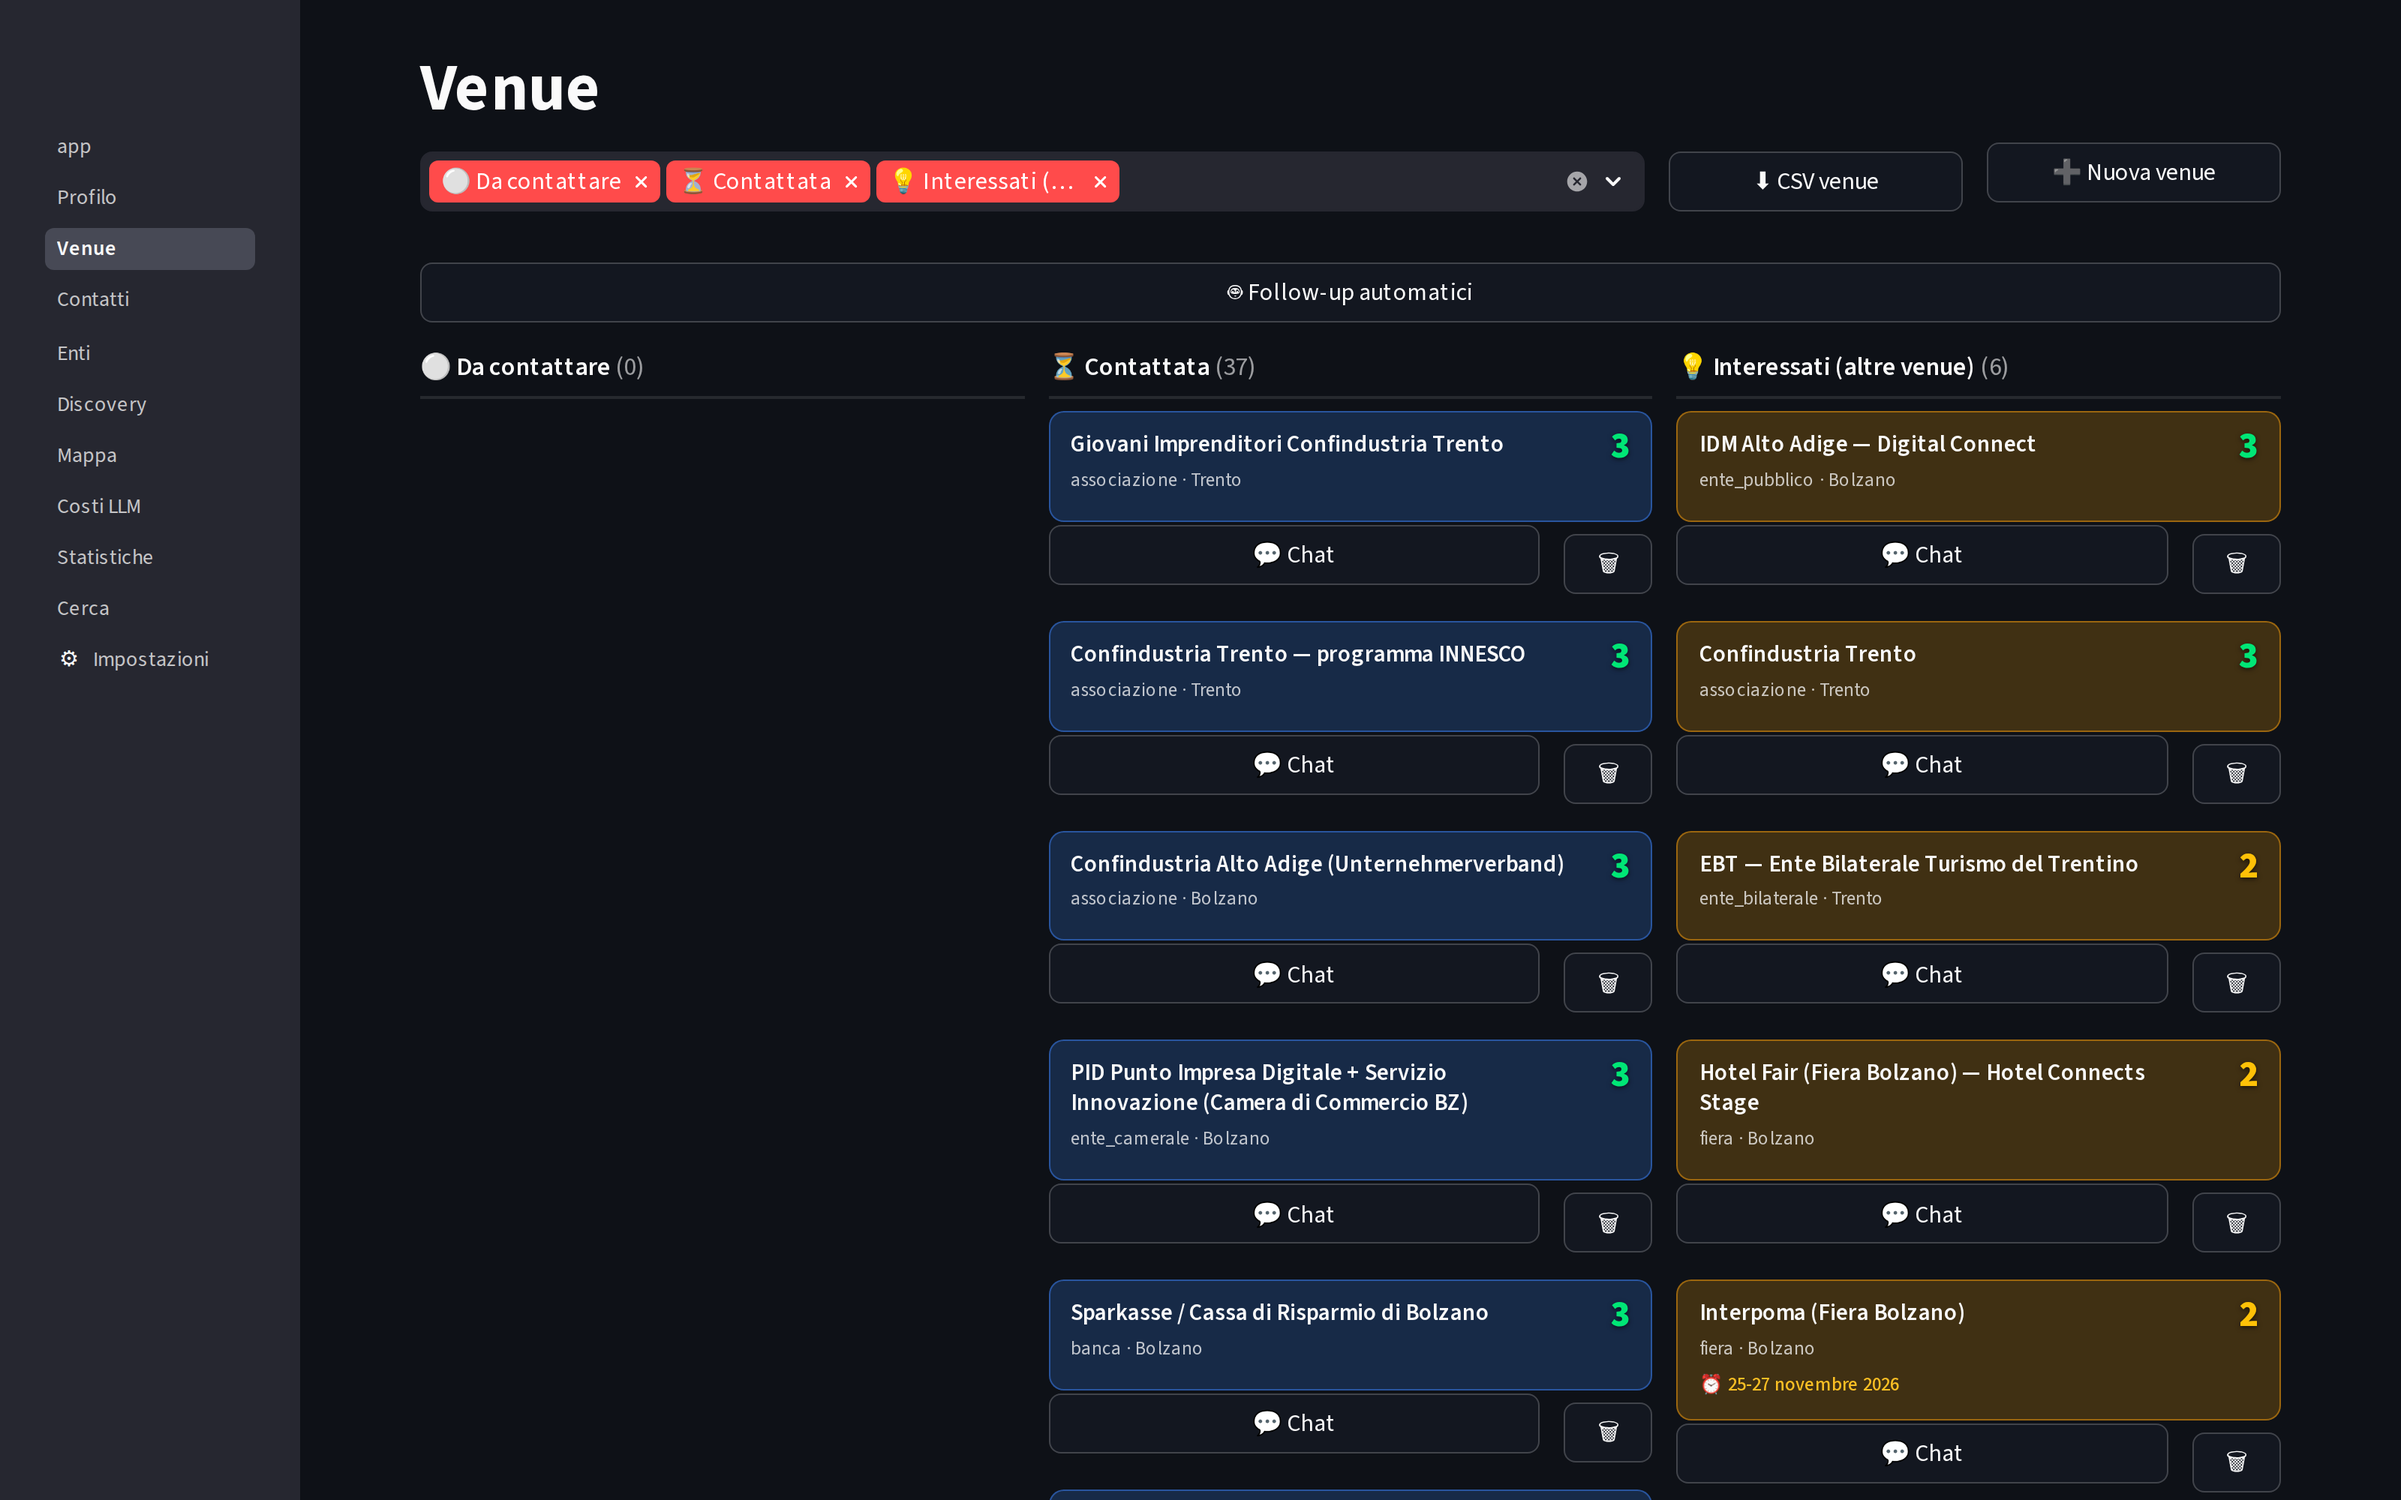
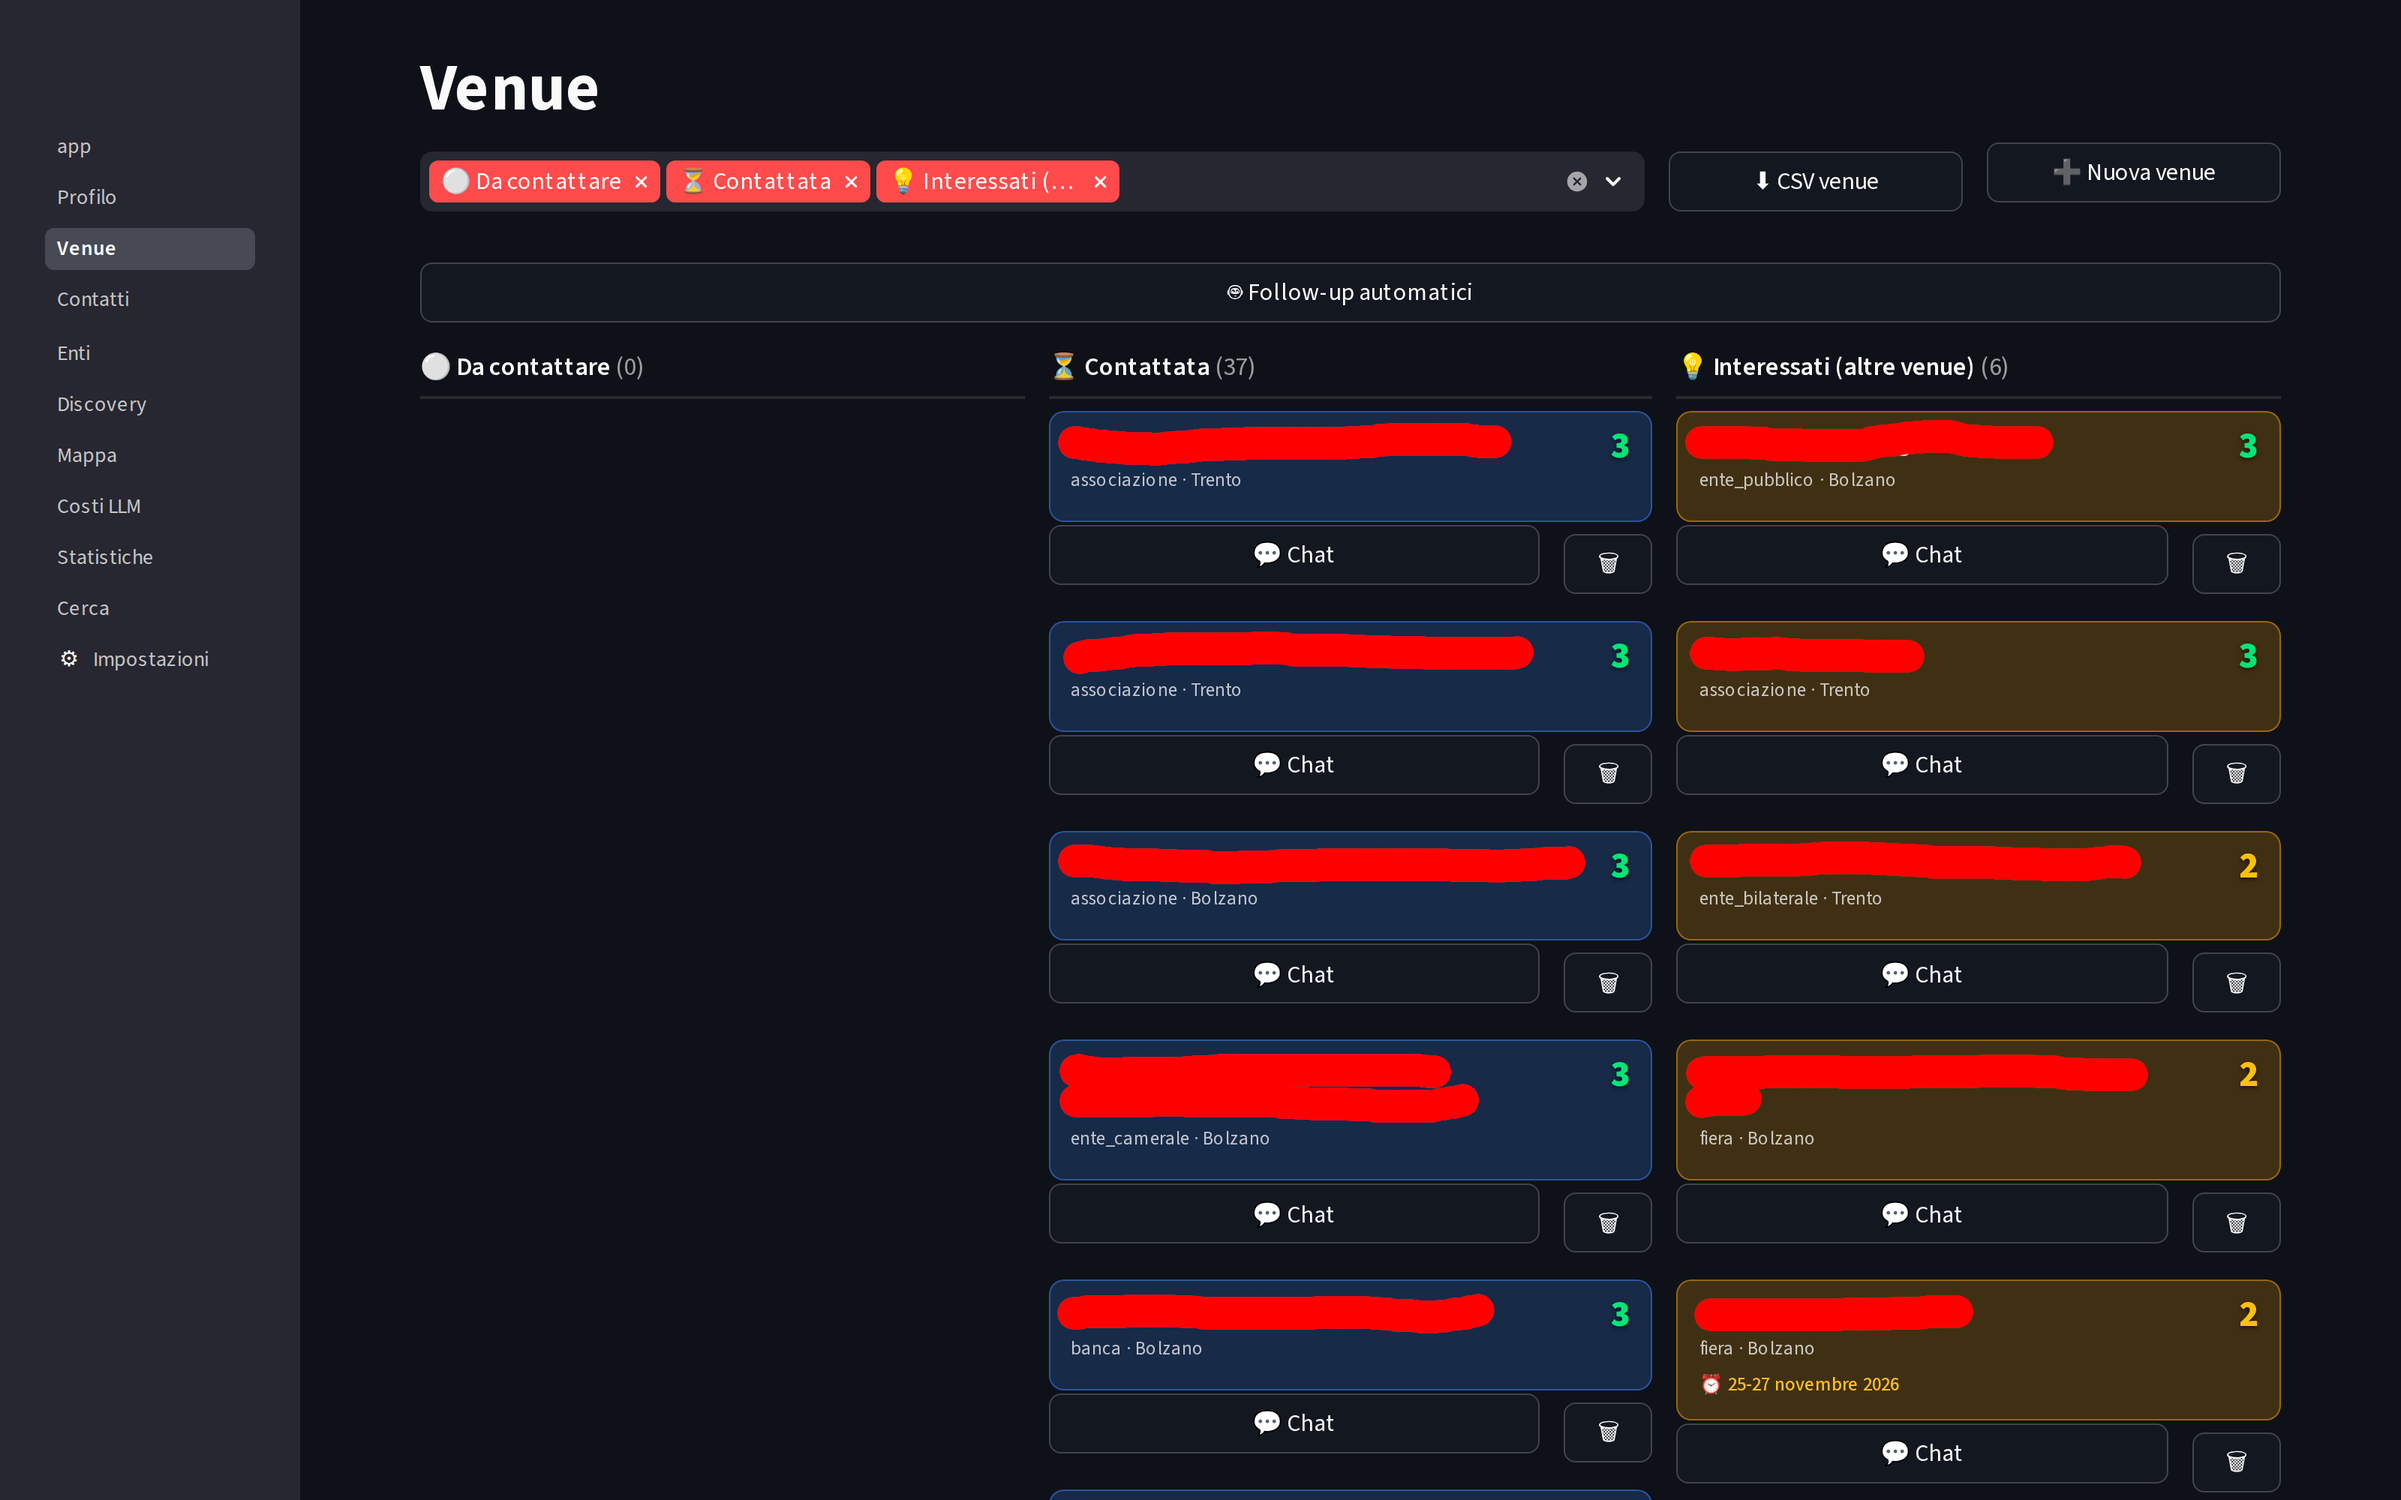
docs: ritaglia gli screenshot per la larghezza reale del README
Nella tabella a due colonne ogni immagine rende a ~440px: gli screenshot a
pagina intera diventavano illeggibili proprio dove stava il loro valore (i
numeri di Costi LLM, le tabelle). Ritagliati sul contenuto che porta
informazione, alzando la risoluzione effettiva.

Discovery sostituita: mostrava una lista di run FALLITE e un form vuoto.
Ora mostra una run completata con il log delle query web, che è il punto
interessante della feature.

Tagliate anche due sezioni che esponevano stack trace (BadRequestError in
"Ultime chiamate") e la colonna follow-up con redazione irregolare.

diff --git a/README.md b/README.md
@@ -58,19 +58,19 @@ A local desktop app that acts as a **copilot, not an autopilot**. It never sends
 
 ## Screenshots
 
-> Prospect names, pipeline states and email subjects are real business data and are redacted here.
+> These are real working sessions, not mockups. Prospect names are redacted where they appear.
 
 <table>
 <tr>
-<td width="50%"><img src="assets/screenshots/home.png" alt="Dashboard"><br><sub><b>Dashboard</b> — pipeline KPIs, overdue follow-ups ranked by staleness, upcoming deadlines.</sub></td>
+<td width="50%"><img src="assets/screenshots/home.png" alt="Dashboard"><br><sub><b>Dashboard</b> — pipeline KPIs at a glance, plus a banner surfacing overdue follow-ups ranked by staleness.</sub></td>
 <td width="50%"><img src="assets/screenshots/venue.png" alt="Venue kanban"><br><sub><b>Venues</b> — kanban by pipeline state, with per-venue fit score and one-click entry into the conversation.</sub></td>
 </tr>
 <tr>
-<td><img src="assets/screenshots/discovery.png" alt="Discovery"><br><sub><b>Discovery</b> — LLM + web search finds new venues. Runs persist in the DB and are replayable step by step.</sub></td>
+<td><img src="assets/screenshots/discovery.png" alt="Discovery run log"><br><sub><b>Discovery</b> — a completed run, replayed. Every web search the model issued is logged to the DB, so a run that took 11 minutes stays auditable afterwards.</sub></td>
 <td><img src="assets/screenshots/mappa.jpg" alt="Map"><br><sub><b>Map</b> — venues geocoded and colored by pipeline state, filterable by type, state and angle.</sub></td>
 </tr>
 <tr>
-<td><img src="assets/screenshots/costi.png" alt="LLM cost tracking"><br><sub><b>LLM economics</b> — token and spend accounting per task and model. Prompt caching keeps the cache-hit rate above 60%.</sub></td>
+<td><img src="assets/screenshots/costi.png" alt="LLM cost tracking"><br><sub><b>LLM economics</b> — token and spend accounting per task and model, showing where Sonnet is worth it and where Haiku is enough. Prompt caching holds the cache-hit rate at 63%.</sub></td>
 <td><img src="assets/screenshots/statistiche.png" alt="Statistics"><br><sub><b>Statistics</b> — aggregate pipeline and interaction metrics, broken down per speaker.</sub></td>
 </tr>
 </table>
